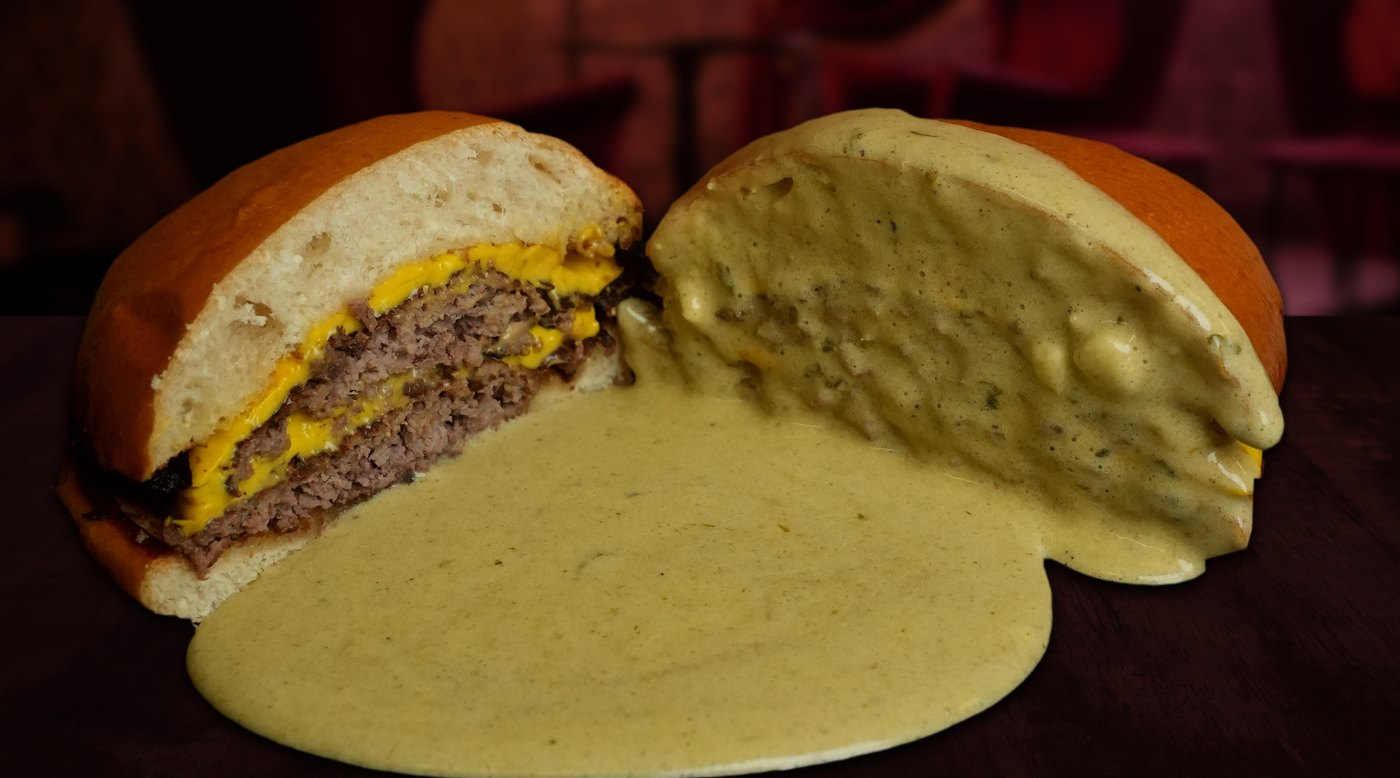
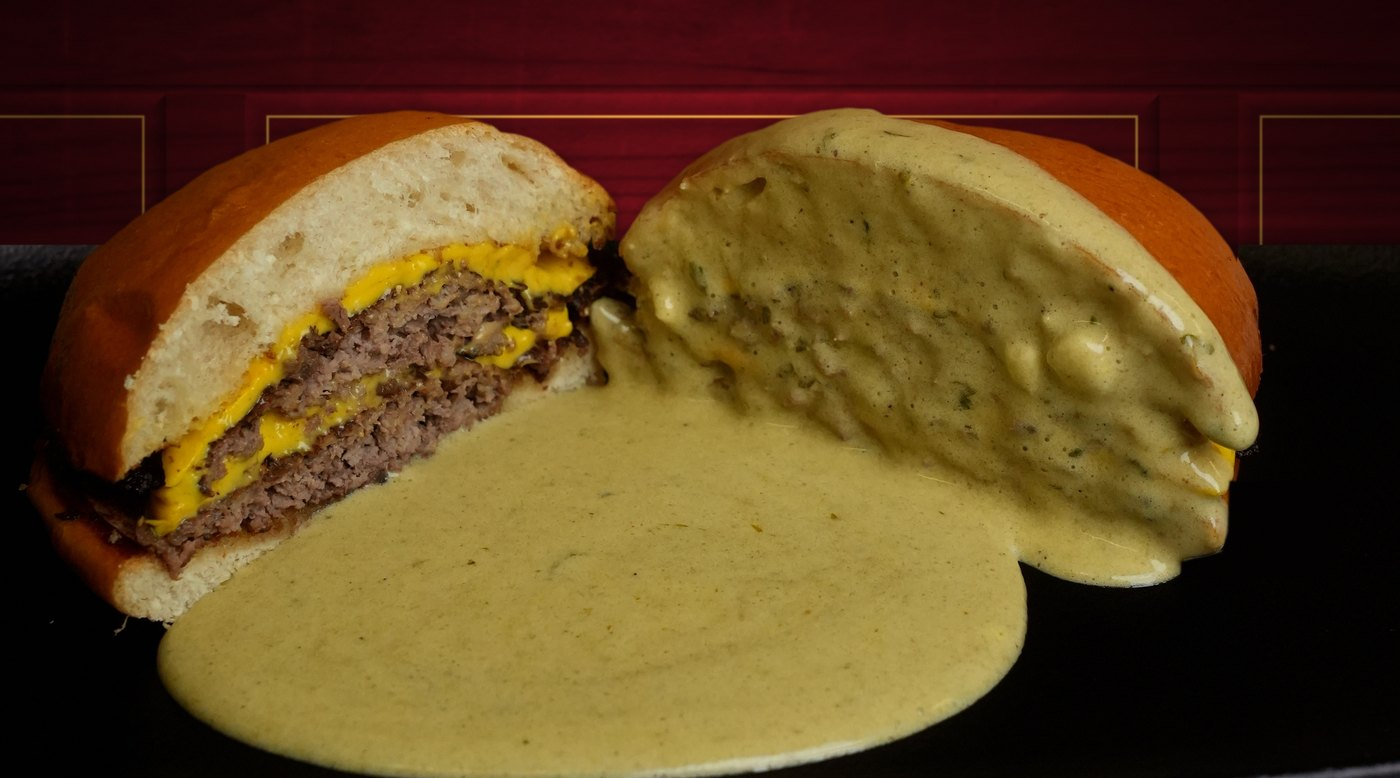
Démo APB Glovo : retour à la v7 (v9 retirée, sauce hors assiette)

diff --git a/public/demos/atelier-paris-burger/glovo/index.html b/public/demos/atelier-paris-burger/glovo/index.html
@@ -47,27 +47,27 @@ textarea{width:100%;background:var(--panel);color:var(--fg);border:1px solid var
 <body>
 <div class="wrap">
   <header>
-    <h1>Atelier Paris Burger<br>Photos Glovo · version 9</h1>
+    <h1>Atelier Paris Burger<br>Photos Glovo · version 7</h1>
     <div class="by">Proposé par <b>Nouvelle Ardoise</b></div>
   </header>
-  <p class="lead">Cette fois, ce sont <b>tes vraies photos</b> : le burger, le cheddar et la sauce n'ont pas été retouchés par l'IA, seule la lumière a été légèrement corrigée. Le décor suit ta charte : <b>ambiance brasserie parisienne, velours rouge et bois sombre</b>, dans tes couleurs Merlot et Cab Sav. Pas de logo sur ces photos, car Glovo les refuse.</p>
+  <p class="lead">Cette fois, ce sont <b>tes vraies photos</b> : le burger, le cheddar et la sauce n'ont pas été retouchés par l'IA, seule la lumière a été légèrement corrigée. Le décor a été refait autour : <b>boiseries en bois teinté lie-de-vin, liseré doré</b> et ton logo gravé et doré dans le bois.</p>
 
   <div class="item">
-    <img src="img/v2-burger-coupe-sauce.jpg?v=9" alt="Burger coupé dans la sauce Café de Paris, fond brasserie velours">
+    <img src="img/v2-burger-coupe-sauce.jpg?v=7" alt="Burger coupé dans la sauce Café de Paris, boiseries lie-de-vin foncé">
     <div class="side">
       <h2>Coupé, dans la sauce</h2>
       <p>Format Glovo 2484 × 1380.</p>
-      <div class="tile"><div><b>Burger classique</b><small>2 steaks, cheddar, sauce Café de Paris</small></div><img src="img/v2-burger-coupe-sauce-sq.jpg?v=9" alt=""></div>
+      <div class="tile"><div><b>Burger classique</b><small>2 steaks, cheddar, sauce Café de Paris</small></div><img src="img/v2-burger-coupe-sauce-sq.jpg?v=7" alt=""></div>
       <span class="cap">Vignette dans la liste de l'appli</span>
     </div>
   </div>
 
   <div class="item">
-    <img src="img/v2-smash-entier.jpg?v=9" alt="Smash triple entier, fond brasserie velours">
+    <img src="img/v2-smash-entier.jpg?v=7" alt="Smash triple entier, boiseries lie-de-vin foncé">
     <div class="side">
       <h2>Smash entier</h2>
       <p>Format Glovo 2484 × 1380.</p>
-      <div class="tile"><div><b>Smash triple</b><small>3 steaks smashés, cheddar</small></div><img src="img/v2-smash-entier-sq.jpg?v=9" alt=""></div>
+      <div class="tile"><div><b>Smash triple</b><small>3 steaks smashés, cheddar</small></div><img src="img/v2-smash-entier-sq.jpg?v=7" alt=""></div>
       <span class="cap">Vignette dans la liste de l'appli</span>
     </div>
   </div>
@@ -91,8 +91,8 @@ textarea{width:100%;background:var(--panel);color:var(--fg);border:1px solid var
 <script>
 let avis="Je valide ce style";
 const msg=document.getElementById("msg");
-function text(){const m=msg.value.trim();return `Atelier Paris Burger – photos Glovo version 9 :\n• ${avis}`+(m?`\n• ${m}`:"");}
-function upd(){const t=text();document.getElementById("wa").href="https://wa.me/?text="+encodeURIComponent(t);document.getElementById("mail").href="mailto:malik@pastamo.ch?subject="+encodeURIComponent("Atelier Paris Burger – photos Glovo v9")+"&body="+encodeURIComponent(t);}
+function text(){const m=msg.value.trim();return `Atelier Paris Burger – photos Glovo version 7 :\n• ${avis}`+(m?`\n• ${m}`:"");}
+function upd(){const t=text();document.getElementById("wa").href="https://wa.me/?text="+encodeURIComponent(t);document.getElementById("mail").href="mailto:malik@pastamo.ch?subject="+encodeURIComponent("Atelier Paris Burger – photos Glovo v7")+"&body="+encodeURIComponent(t);}
 document.querySelectorAll(".choice").forEach(b=>b.addEventListener("click",()=>{avis=b.dataset.v;document.querySelectorAll(".choice").forEach(x=>x.setAttribute("aria-checked",x===b?"true":"false"));upd();}));
 msg.addEventListener("input",upd);
 document.getElementById("copy").addEventListener("click",async()=>{const o=document.getElementById("copied");try{await navigator.clipboard.writeText(text());o.textContent="Copié : colle-le dans ton message à Malik.";}catch(e){o.textContent=text();}});
